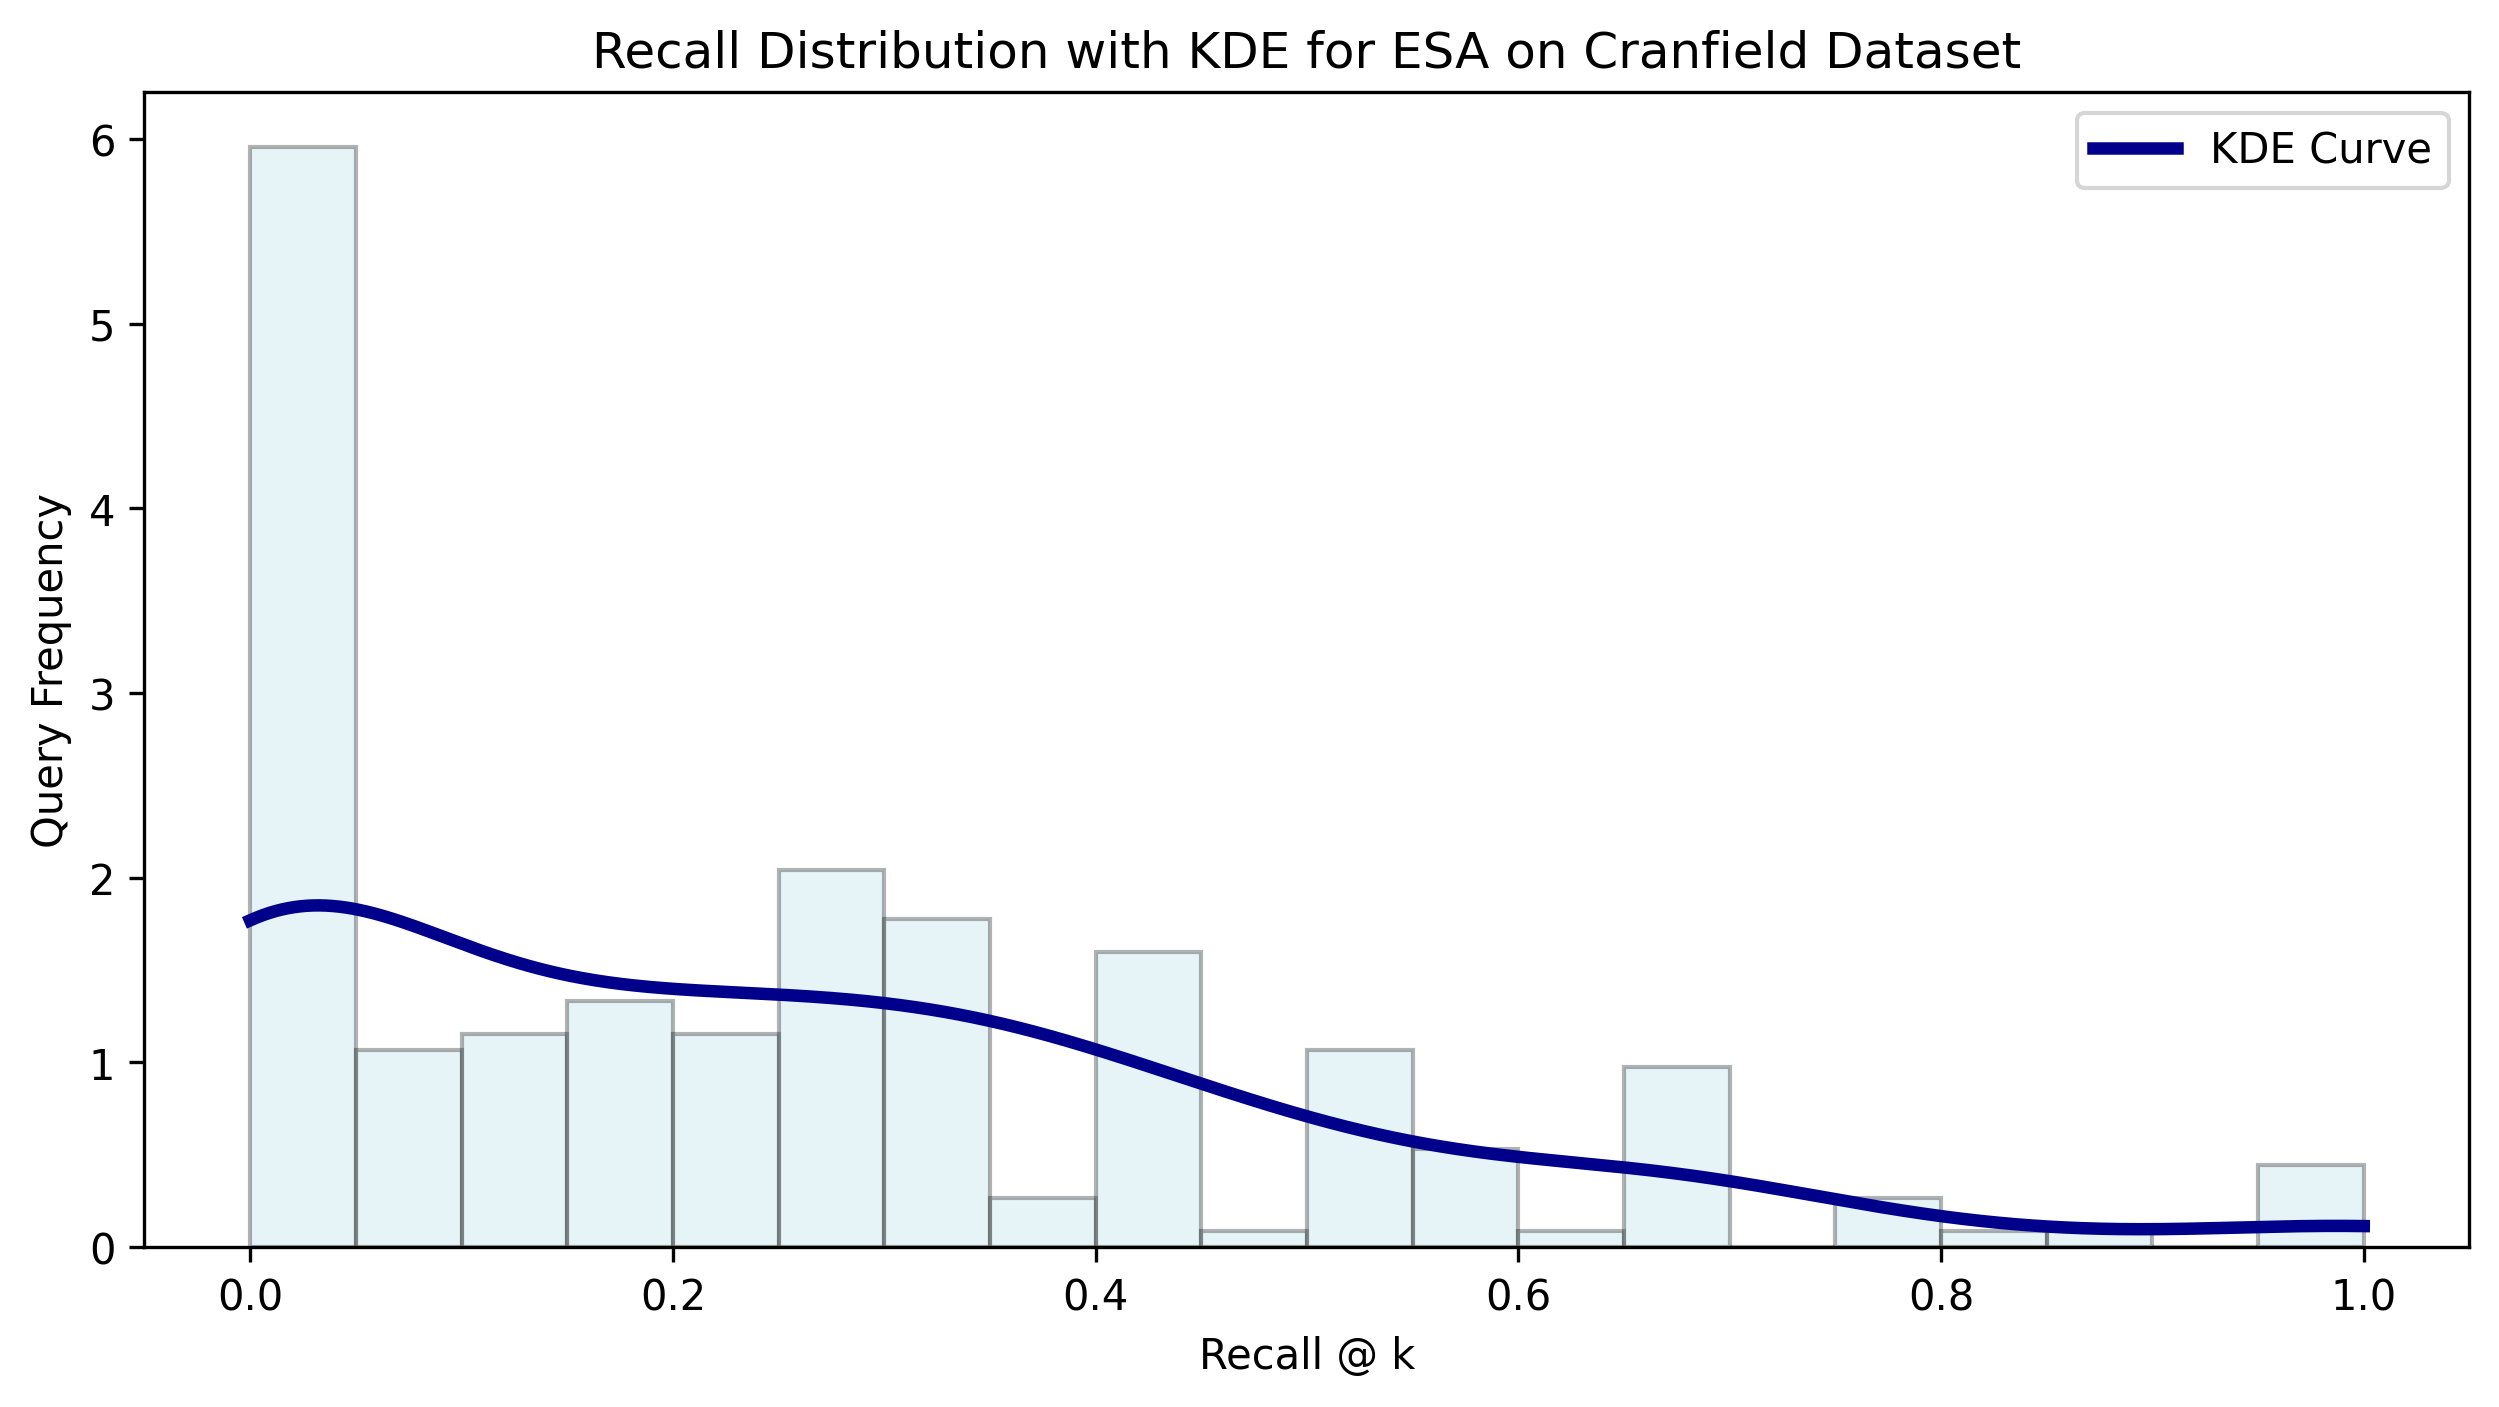
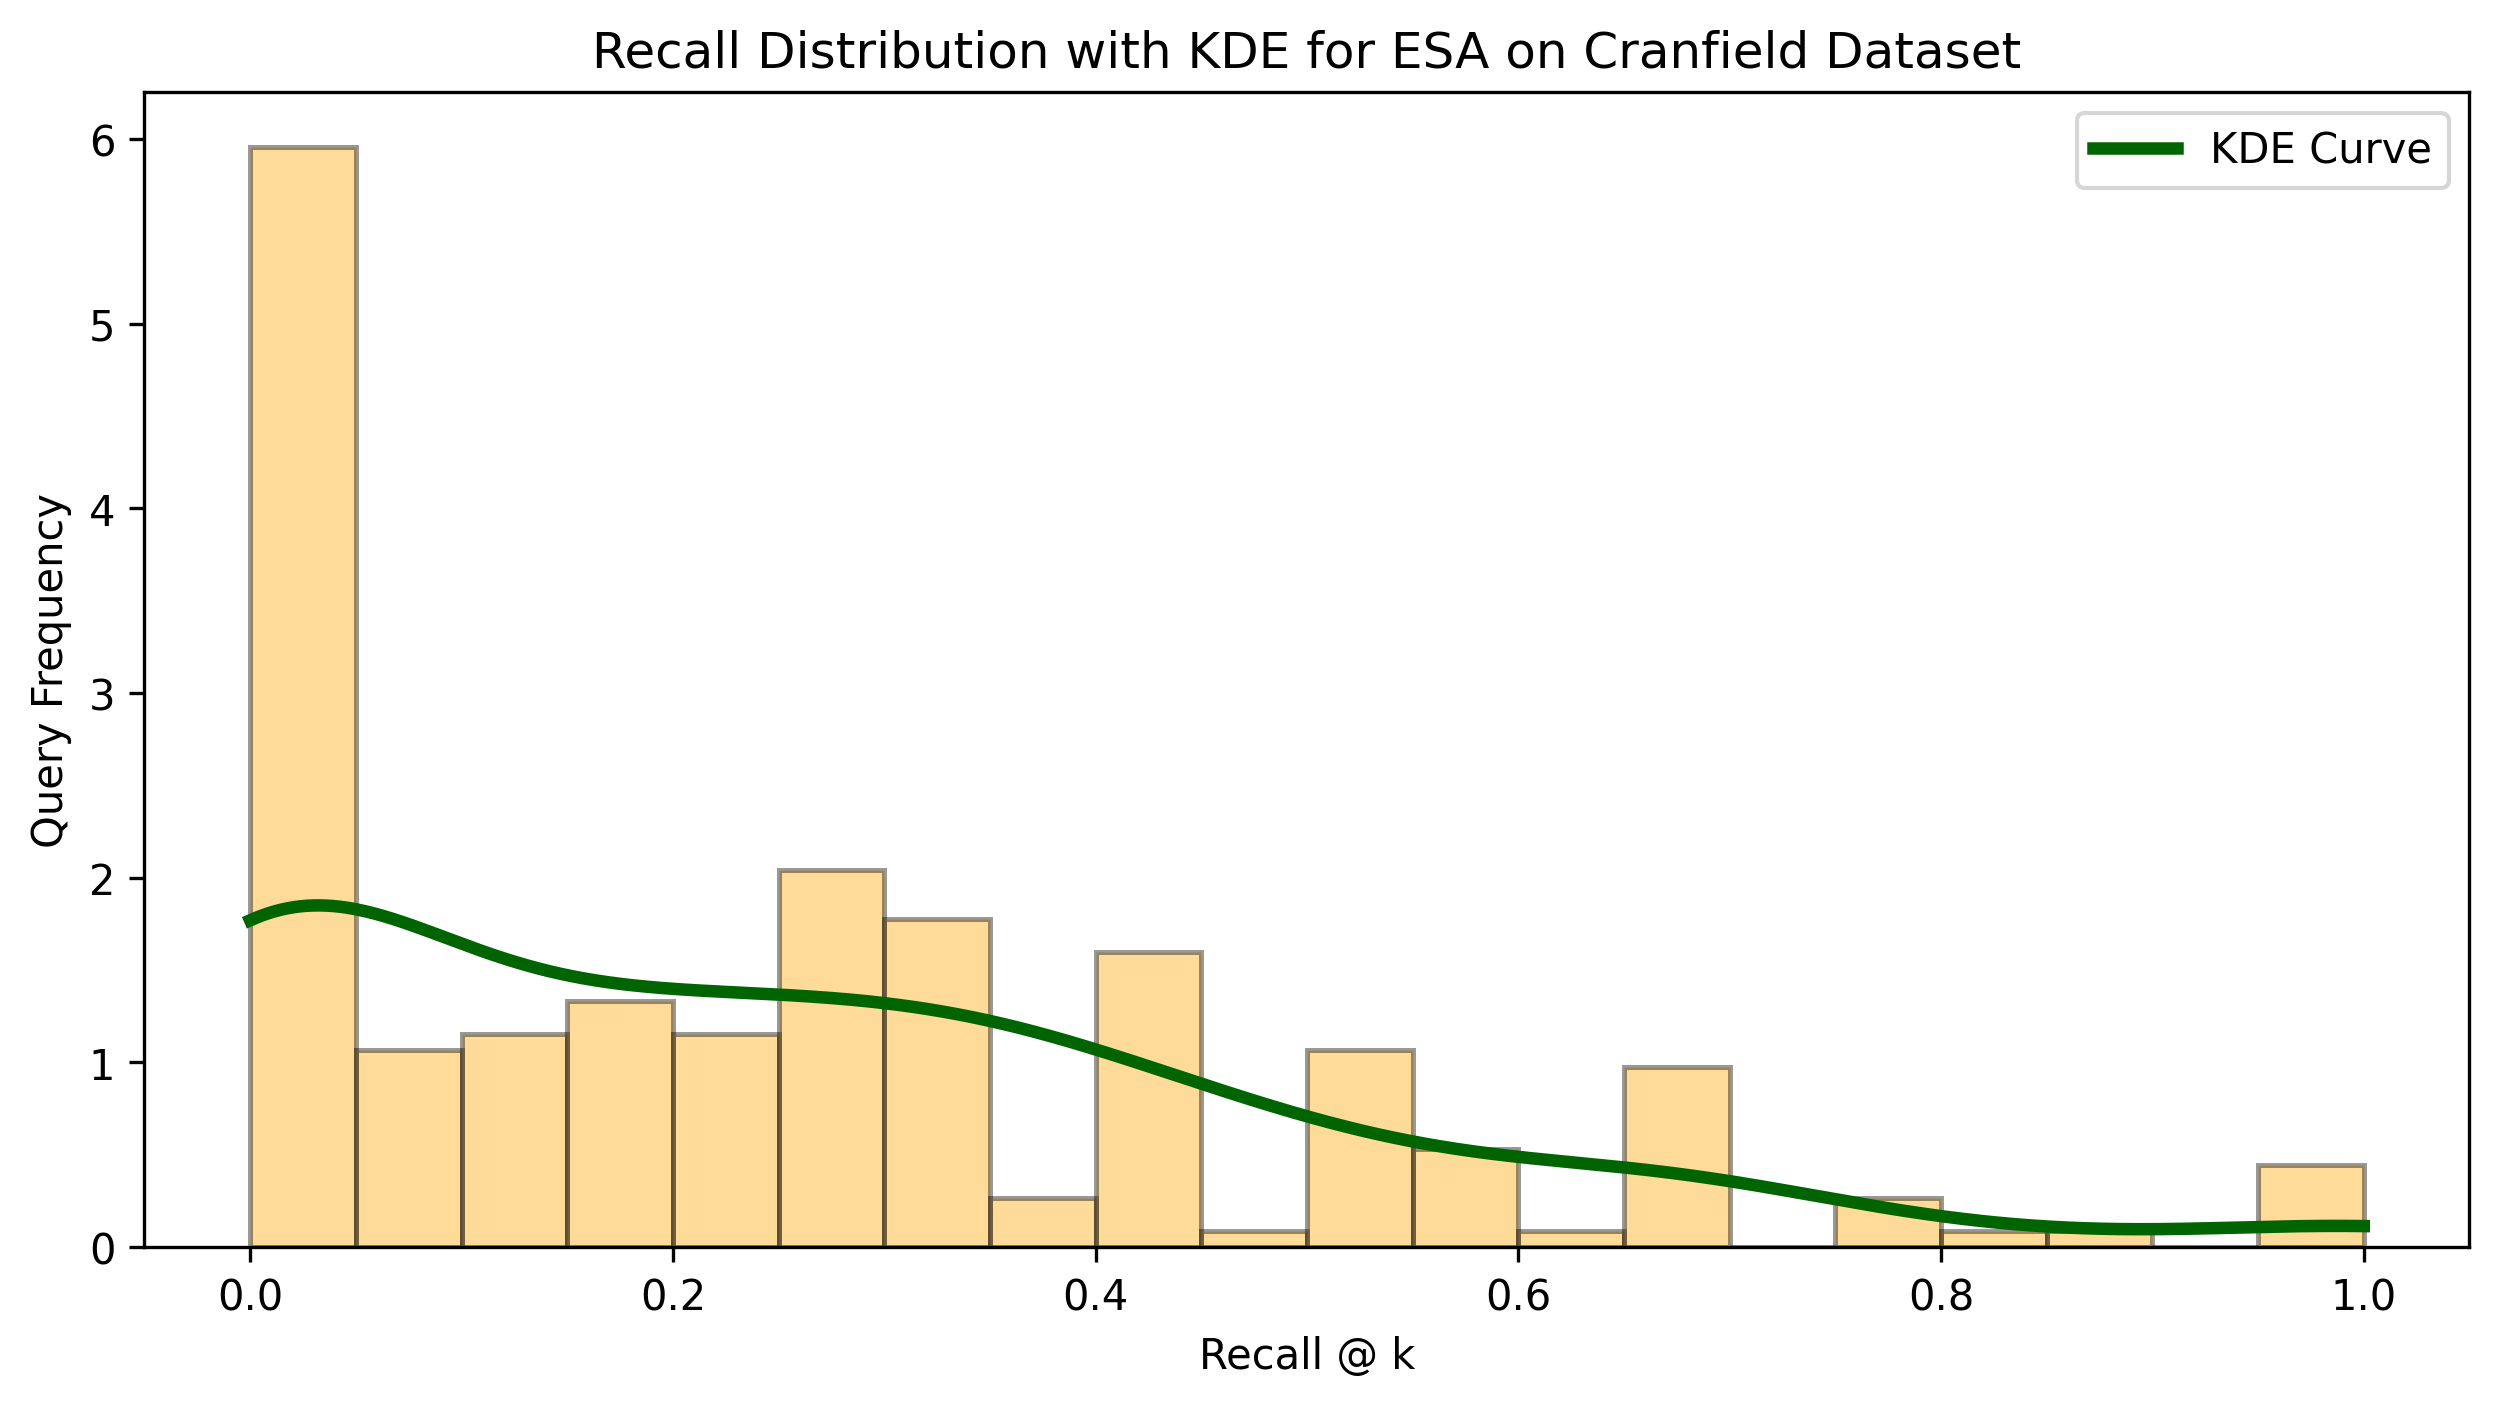
edited to one tailed t test

Changed region(s): [[0.0936, 0.0917, 0.9676, 0.8863], [0.8427, 0.0917, 0.8739, 0.1222]]

diff --git a/plotting.py b/plotting.py
@@ -145,27 +145,24 @@ def plot_distribution(metric_values, metric_name, model_name, filename):
     plt.ylabel('Query Frequency')
     plt.title(f'{metric_name} Distribution with KDE for {model_name} on Cranfield Dataset')
 
-    # Check if all values are identical
     if len(np.unique(values)) == 1:
-        plt.axvline(x=values[0], color='darkblue', linestyle='--', label=f'All values = {values[0]:.4f}')
+        plt.axvline(x=values[0], color='darkgreen', linestyle='--', label=f'All values = {values[0]:.4f}')
         plt.legend()
         save_plot(plt, filename, model_name)
         return
 
-    # If values are not identical, proceed with KDE
     try:
         kde = gaussian_kde(values)
         x_vals = np.linspace(min(values), max(values), 1000)
-        plt.plot(x_vals, kde(x_vals), color='darkblue', linewidth=3, label='KDE Curve')
+        plt.plot(x_vals, kde(x_vals), color='darkgreen', linewidth=3, label='KDE Curve')
     except np.linalg.LinAlgError:
-        # If KDE fails, just plot histogram
         print(f"Warning: Could not compute KDE for {metric_name} - values may be too similar")
-        plt.hist(values, bins=20, density=True, alpha=0.3, color='lightblue', edgecolor='black', linewidth=1)
+        plt.hist(values, bins=20, density=True, alpha=0.4, color='orange', edgecolor='black', linewidth=1.2)
         plt.legend(['Histogram only (KDE failed)'])
         save_plot(plt, filename, model_name)
         return
 
-    plt.hist(values, bins=20, density=True, alpha=0.3, color='lightblue', edgecolor='black', linewidth=1)
+    plt.hist(values, bins=20, density=True, alpha=0.4, color='orange', edgecolor='black', linewidth=1.2)
     plt.legend()
     save_plot(plt, filename, model_name)
 
@@ -185,22 +182,21 @@ def plot_comparison(metric1, metric2, metric_name, model1_name, model2_name, fil
     plt.title(f'{metric_name} Comparison: {model1_name} vs {model2_name} (Cranfield Dataset)')
 
     all_values = np.concatenate([metric1, metric2])
-    bins = np.linspace(min(all_values), max(all_values), 20)  # Shared bins
+    bins = np.linspace(min(all_values), max(all_values), 20)
 
     try:
         kde1 = gaussian_kde(metric1)
         kde2 = gaussian_kde(metric2)
         x_vals = np.linspace(min(all_values), max(all_values), 1000)
-        plt.plot(x_vals, kde1(x_vals), color='red', label=f'{model1_name} KDE')
-        plt.plot(x_vals, kde2(x_vals), color='darkblue', label=f'{model2_name} KDE')
+        plt.plot(x_vals, kde1(x_vals), color='darkred', linewidth=2.5, label=f'{model1_name} KDE')
+        plt.plot(x_vals, kde2(x_vals), color='navy', linewidth=2.5, label=f'{model2_name} KDE')
     except np.linalg.LinAlgError:
         print(f"Warning: Could not compute KDE for {metric_name} comparison - values may be too similar")
 
-    # Use shared bins for overlapping histograms
-    plt.hist(metric1, bins=bins, density=True, alpha=0.4, color='lightcoral',
-             edgecolor='black', linewidth=1.5, label=model1_name)
-    plt.hist(metric2, bins=bins, density=True, alpha=0.4, color='lightblue',
-             edgecolor='black', linewidth=1.5, label=model2_name)
+    plt.hist(metric1, bins=bins, density=True, alpha=0.5, color='lightcoral',
+             edgecolor='black', linewidth=1.2, label=model1_name)
+    plt.hist(metric2, bins=bins, density=True, alpha=0.5, color='teal',
+             edgecolor='black', linewidth=1.2, label=model2_name)
 
     plt.legend()
     save_plot(plt, filename)

diff --git a/model_comparison.py b/model_comparison.py
@@ -96,7 +96,7 @@
 #             ranking_similarities.append(similarity)
     
 #     print(f"Average Jaccard similarity between top-{k} rankings: {np.mean(ranking_similarities):.4f}")
-#     print(f"Std dev of Jaccard similarities: {np.std(ranking_similarities):.4f}")
+#     print(f"Std dev of Jaccard simi larities: {np.std(ranking_similarities):.4f}")
     
 #     # Analyze ranking diversity
 #     unique_docs_in_top_k = set()
@@ -282,23 +282,42 @@ def evaluate_model(model, query_texts, query_ids, doc_texts, doc_ids, qrels, nam
     plot(qrels, ranked_docs, query_texts, k, name)
     return metrics, ranked_docs
 
-def compare_models(metrics1, metrics2, name1, name2):
-    print(f"\nComparing {name1} vs {name2}:")
-
-    plot_comp(metrics1['Precision'], metrics2['Precision'],
-              metrics1['Recall'], metrics2['Recall'],
-              metrics1['F-score'], metrics2['F-score'],
-              metrics1['nDCG'], metrics2['nDCG'],
-              10, name1, name2)
-
+def compare_models(model1_metrics, model2_metrics, model1_name, model2_name):
+    """Compare two models using hypothesis testing and plotting"""
+    print(f"\nComparing {model1_name} vs {model2_name}:")
+    
+    # Plot comparison
+    plot_comp(
+        model1_metrics['Precision'], model2_metrics['Precision'],
+        model1_metrics['Recall'], model2_metrics['Recall'],
+        model1_metrics['F-score'], model2_metrics['F-score'],
+        model1_metrics['nDCG'], model2_metrics['nDCG'],
+        10, model1_name, model2_name
+    )
+    
+    # Hypothesis testing with one-tailed t-test
     for metric in ['Precision', 'Recall', 'F-score', 'nDCG']:
-        t_stat, p_val = hypothesis_test(metrics1[metric], metrics2[metric])
-        print(f"\n{metric}: t={t_stat:.4f}, p={p_val:.4f}")
-        if p_val < 0.05:
-            better = name1 if np.mean(metrics1[metric]) > np.mean(metrics2[metric]) else name2
-            print(f"Significant difference: {better} is better")
+        # Perform one-tailed t-test using hypothesis_test function
+        t_stat, p_value = hypothesis_test(model1_metrics[metric], model2_metrics[metric])
+        print(f"\n{metric}:")
+        print(f"t-statistic: {t_stat:.4f}")
+        print(f"p-value (one-tailed): {p_value:.4f}")
+        
+        # For one-tailed test with alternative='greater':
+        # H0: model1 <= model2
+        # H1: model1 > model2
+        if p_value < 0.05:
+            # If p-value is significant, we reject H0 and conclude model1 > model2
+            print(f"Significant difference! {model1_name} performs better than {model2_name}.")
         else:
-            print("No significant difference")
+            # If p-value is not significant, we fail to reject H0
+            # This means we can't conclude model1 is better than model2
+            print("No significant difference in performance (cannot conclude model1 is better than model2).")
+        
+        # Print mean values for context
+        mean1 = np.mean(model1_metrics[metric])
+        mean2 = np.mean(model2_metrics[metric])
+        print(f"Mean {metric}: {model1_name}={mean1:.4f}, {model2_name}={mean2:.4f}")
 
 def main():
     print("Loading Cranfield dataset...")

diff --git a/hypothesis_testing.py b/hypothesis_testing.py
@@ -11,5 +11,5 @@ def hypothesis_test(sample1, sample2):
     - t_value: float, computed t-statistic
     - p_value: float, two-tailed p-value
     """
-    t_value, p_value = ttest_ind(sample1, sample2, equal_var=False)
+    t_value, p_value = ttest_ind(sample1, sample2, equal_var=False, alternative='greater')
     return t_value, p_value
